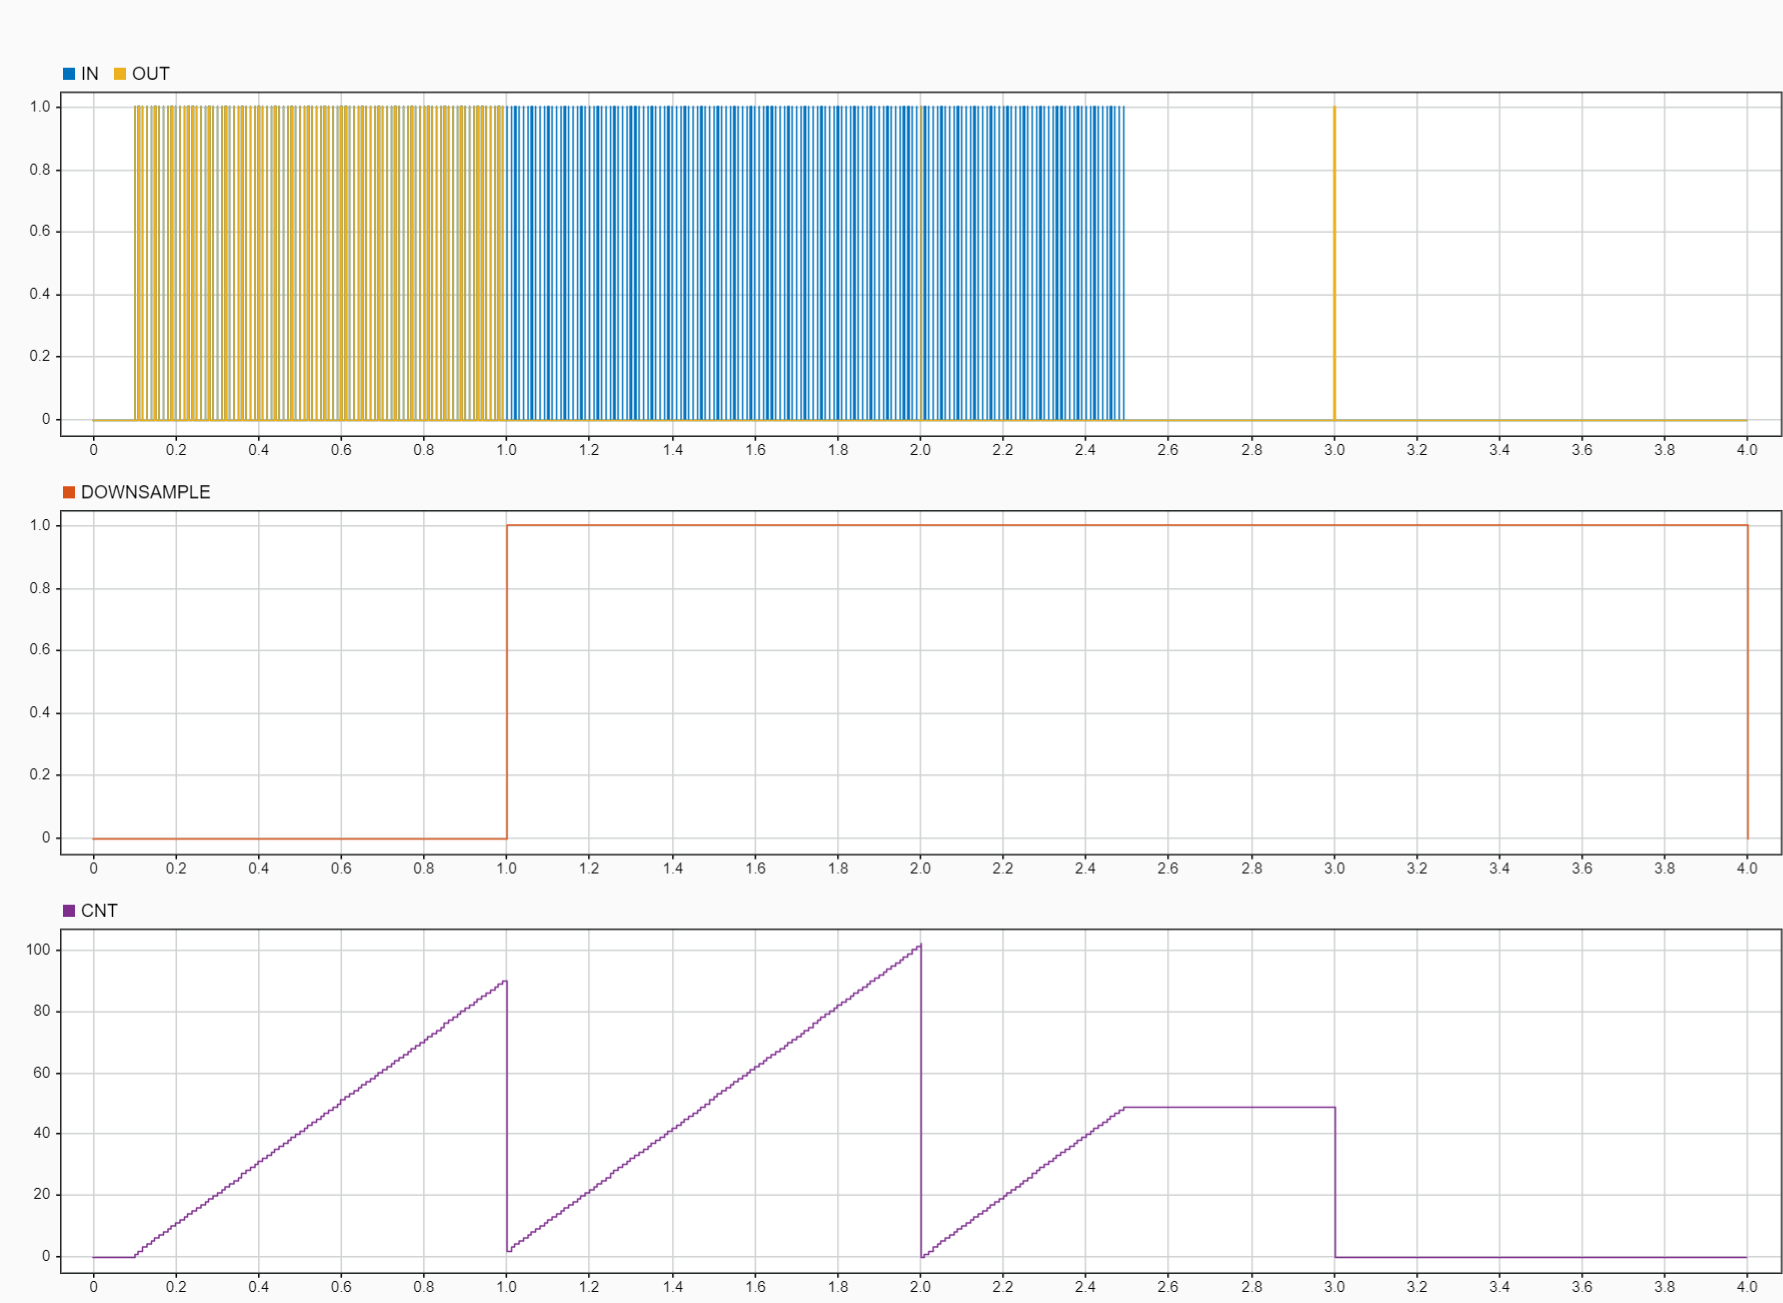
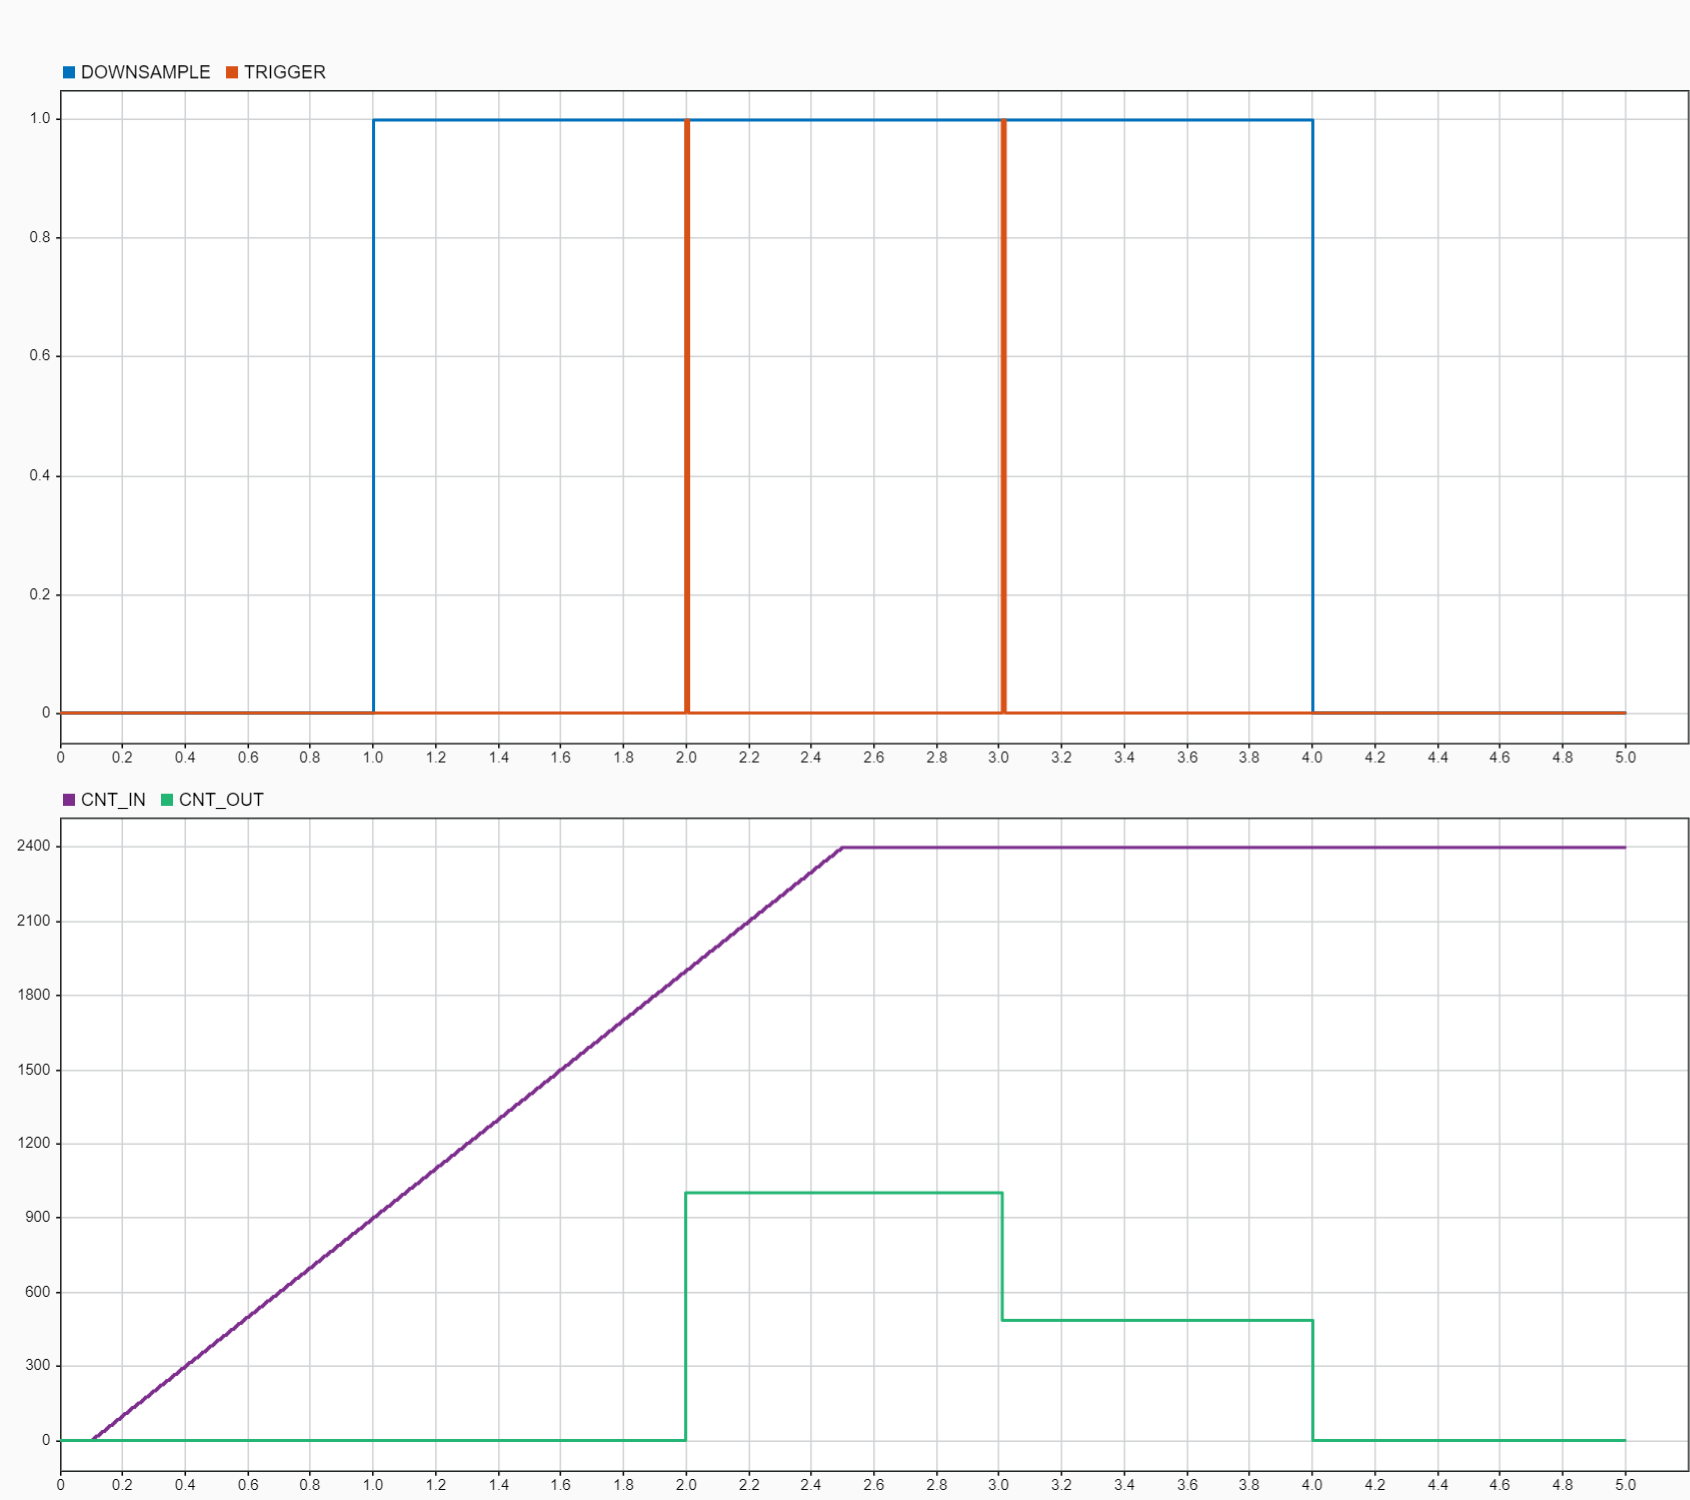
[event-downsampler] refactored

diff --git a/event-downsampler/README.md b/event-downsampler/README.md
@@ -3,56 +3,51 @@ Event Downsampler
 
 ![model](./assets/model.png)
 
-The FSM receives as input a boolean that is `1` when an event is being triggered and `0` otherwise and
-yields as output a corresponding boolean with the same meaning that undergoes however a sort of smart down-sampling
-plus a counter that tells us how many original events have been raised in a given temporal window.
+This FSM aims to downsample events in a stream. To this end, it receives as input the counter of the events and yields as output
+a bunch of information including when to print a message reporting on the aggregate of the number of events tha have occurred.
 
-The handler is composed of two parallel charts:
+The FSM is composed of two parallel charts:
 
 - `EvalOccurence` is devoted to evaluating the number of events triggered in a given temporal window (default = 1 sec).
 - `EventHandler` is the actual handler implementing the logic below:
-  - If the occurrence of the events is above a threshold, then it triggers the output only each second (i.e., same lapse as above).
-  - Otherwise, output = input.
+  - If the occurrence of the events is above a threshold, then it triggers an output message only each second (i.e., same lapse as above).
 
 We have only 2 params:
-- The temporal window is used to evaluate the frequency of the input events and to carry out down-sampling at the output stage.
-- The threshold for the events detected in the window above which triggers down-sampling (default = 5).
+- The temporal window is used to evaluate the frequency of the input events and to carry out down-sampling at the same time.
+- The threshold for the events detected in the window above, which triggers down-sampling (default = 5).
 
 The output of the handler is threefold:
 - The boolean `DOWNSAMPLE` that is `1` when the handler is downsampling the input events. 
-- The boolean `OUT` that tells when to print the message.
-- The integer `CNT` that accounts for the number of events that occurred since the last print (this info can be used to populate the message).
+- The boolean `TRIGGER` that tells when to print the message.
+- The integer `CNT_OUT` that accounts for the number of events that occurred since the last print (this info can be used to populate the message).
 
-Here's below a typical outcome where it's shown how the output follows the input only within the initial window that serves to evaluate
-the occurrence of the events. After that, the output gets triggered only in single instances.
+Here's below a typical outcome:
 
 ![graph](./assets/graphs.png)
 
 Find below a meta-code that can be used to interface the handler for managing the occurrence of multiple event types:
 
 ```c++
-IN = false;
-
 if (event_1) {
-  IN = true;
+  CNT_IN++;
   if (!FSM.DOWNSAMPLE) {
-    yInfo() << "event 1 occurred";
+    yInfo() << "event 1 detected";
   }
 }
 
 if (event_2) {
-  IN = true;
+  CNT_IN++;
   if (!FSM.DOWNSAMPLE) {
-    yInfo() << "event 2 occurred";
+    yInfo() << "event 2 detected";
   }
 }
 
 // ...
 
-FSM_step(IN);
+FSM_step(CNT_IN);
 
-if (FSM.DOWNSAMPLE && FSM.OUT) {
-  yInfo() << "Detected <<" FSM.CNT << "events on aggregate since the last message";
+if (FSM.DOWNSAMPLE && FSM.TRIGGER) {
+  yInfo() << "Detected <<" FSM.CNT_OUT << "events on aggregate since the last message";
 }
 ```
 
